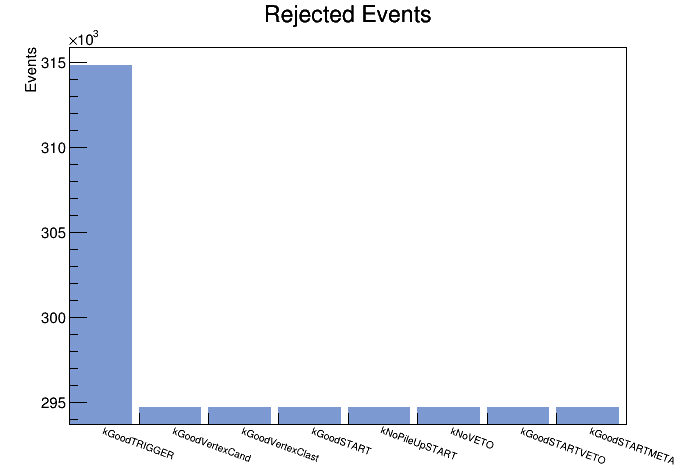
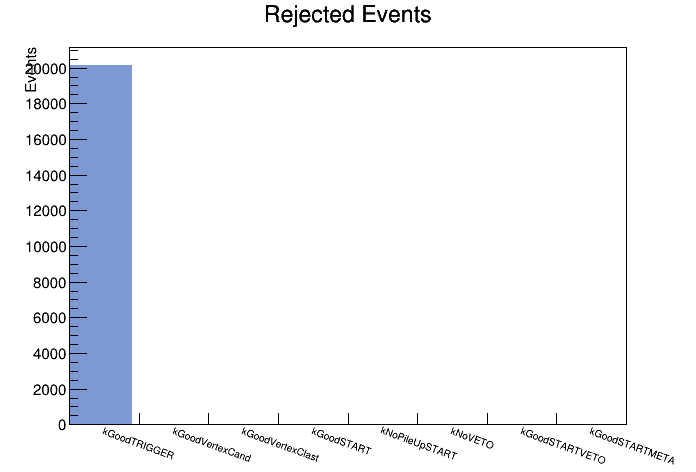
pics

diff --git a/macros/pics/Cuts_rej.C b/macros/pics/Cuts_rej.C
@@ -1,8 +1,8 @@
 {
 //=========Macro generated from canvas: c1/c1
-//=========  (Thu Nov 23 19:24:59 2017) by ROOT version5.34/34
+//=========  (Thu Nov 23 19:34:27 2017) by ROOT version5.34/34
    TCanvas *c1 = new TCanvas("c1", "c1",0,0,700,500);
-   c1->Range(-1,290884.8,9,318674.7);
+   c1->Range(-1,-2646.656,9,23819.91);
    c1->SetFillColor(0);
    c1->SetBorderMode(0);
    c1->SetBorderSize(2);
@@ -10,16 +10,9 @@
    c1->SetFrameBorderMode(0);
    
    TH1F *hCutRejected = new TH1F("hCutRejected","Rejected Events",8,0,8);
-   hCutRejected->SetBinContent(1,314837);
-   hCutRejected->SetBinContent(2,294672);
-   hCutRejected->SetBinContent(3,294672);
-   hCutRejected->SetBinContent(4,294672);
-   hCutRejected->SetBinContent(5,294672);
-   hCutRejected->SetBinContent(6,294672);
-   hCutRejected->SetBinContent(7,294672);
-   hCutRejected->SetBinContent(8,294672);
+   hCutRejected->SetBinContent(1,20165);
    hCutRejected->SetBarWidth(0.9);
-   hCutRejected->SetEntries(2377541);
+   hCutRejected->SetEntries(20165);
    hCutRejected->SetStats(0);
    hCutRejected->SetFillColor(38);
 

diff --git a/macros/pics/Evt.C b/macros/pics/Evt.C
@@ -1,6 +1,6 @@
 {
 //=========Macro generated from canvas: c1/c1
-//=========  (Thu Nov 23 19:24:59 2017) by ROOT version5.34/34
+//=========  (Thu Nov 23 19:34:27 2017) by ROOT version5.34/34
    TCanvas *c1 = new TCanvas("c1", "c1",0,0,700,500);
    c1->Range(-0.75,597937.5,1.75,831788.7);
    c1->SetFillColor(0);

diff --git a/macros/pics/Cuts.C b/macros/pics/Cuts.C
@@ -1,6 +1,6 @@
 {
 //=========Macro generated from canvas: c1/c1
-//=========  (Thu Nov 23 19:24:59 2017) by ROOT version5.34/34
+//=========  (Thu Nov 23 19:34:27 2017) by ROOT version5.34/34
    TCanvas *c1 = new TCanvas("c1", "c1",0,0,700,500);
    c1->Range(-1,441492.9,9,594728);
    c1->SetFillColor(0);
